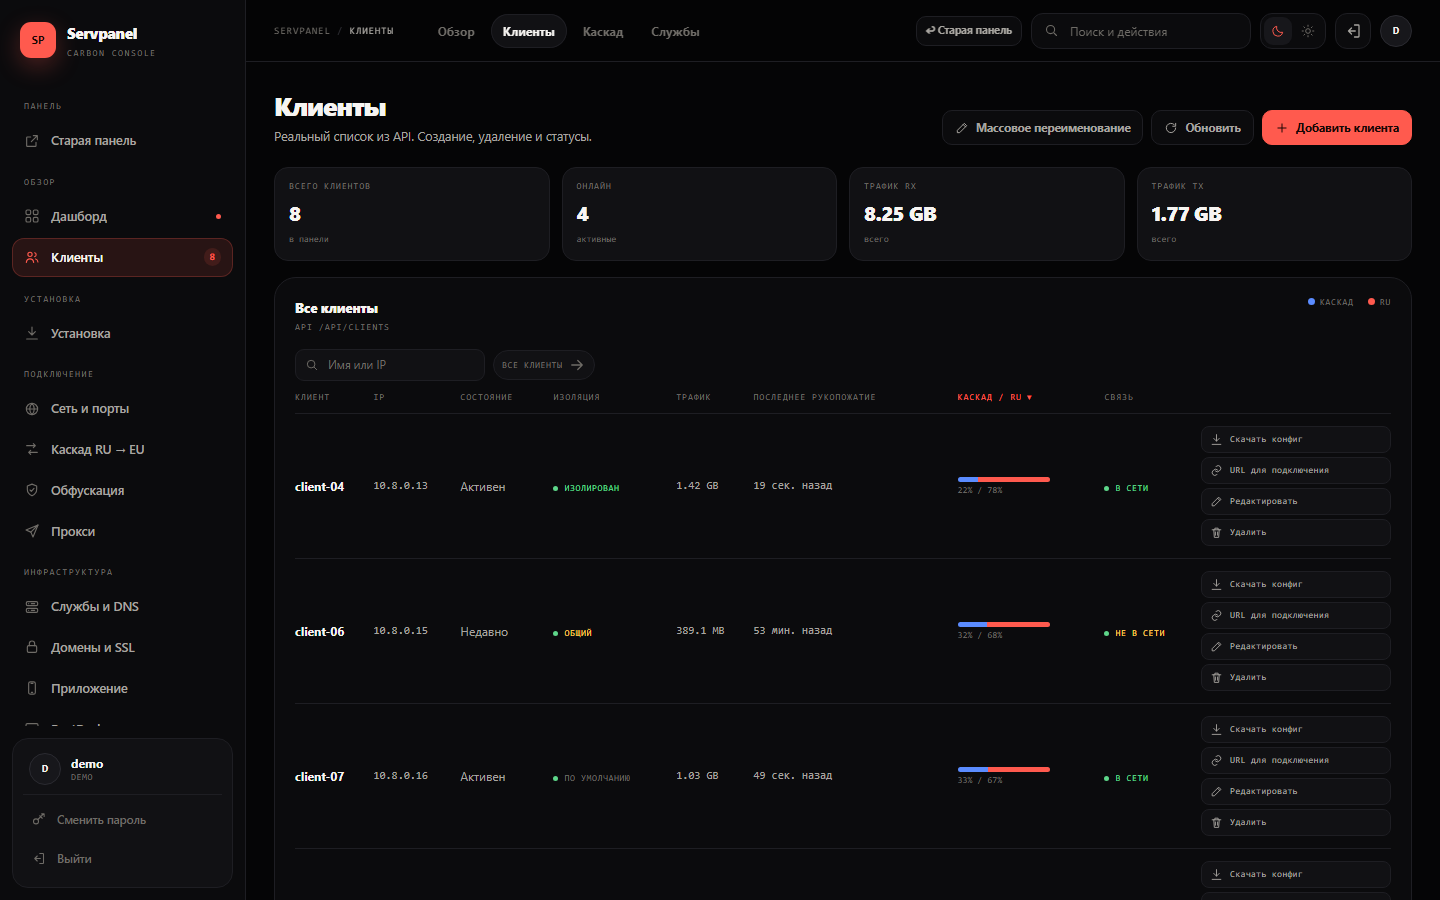
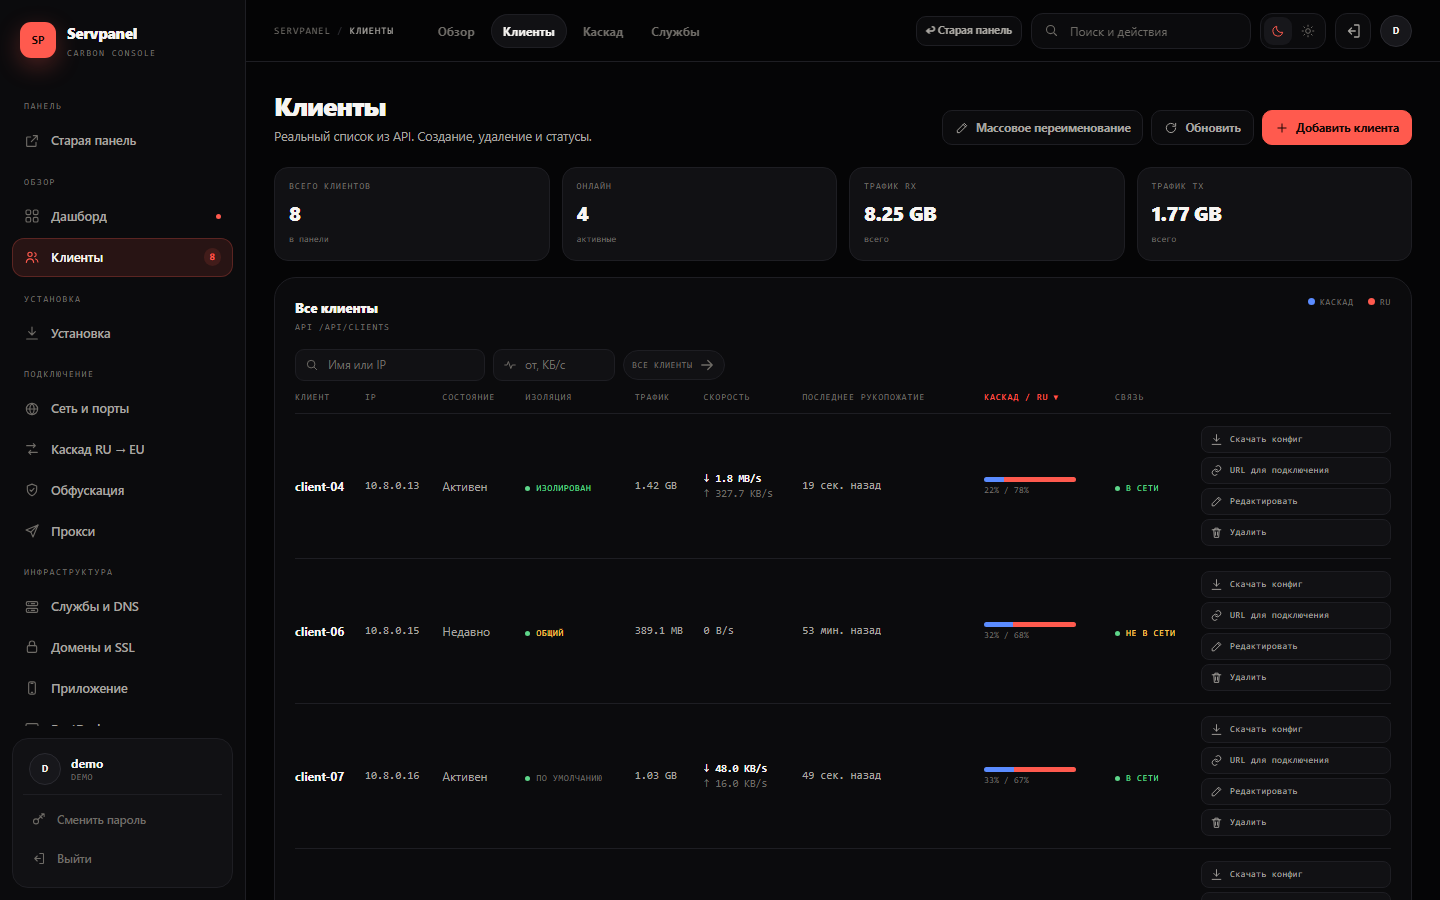
Docs: client speed column and filter screenshot

diff --git a/README.md b/README.md
@@ -39,7 +39,7 @@ KPI, CPU/RAM, uptime, график и распределение трафика 
 
 <img src="docs/screenshots/clients.png" alt="Клиенты Servpanel Carbon: сортировка по доле RU-трафика" width="900">
 
-Клик по заголовку сортирует таблицу, повторный клик меняет направление. Колонка **«Каскад / RU»** сортирует по доле RU-трафика.
+Клик по заголовку сортирует таблицу, повторный клик меняет направление. Колонка **«Каскад / RU»** сортирует по доле RU-трафика. В колонке **«Скорость»** — текущие ↓ Rx / ↑ Tx, рядом фильтр **«от, КБ/с»**.
 
 ### Клиент: лимиты и точечная изоляция
 
@@ -1029,7 +1029,7 @@ npm install
 npm test
 ```
 
-`npm test` проверяет синтаксис `server.js`, `public/app.js`, `public/carbon/app.js`, `public/carbon/carbon-api.js`, `public/carbon/actions.js`, `lib/updater.js`, `lib/update-worker.js` и запускает **109 интеграционных тестов** (встроенный `node:test`, без внешних зависимостей):
+`npm test` проверяет синтаксис `server.js`, `public/app.js`, `public/carbon/app.js`, `public/carbon/carbon-api.js`, `public/carbon/actions.js`, `lib/updater.js`, `lib/update-worker.js` и запускает **110 интеграционных тестов** (встроенный `node:test`, без внешних зависимостей):
 
 * доступ без авторизации, security-заголовки;
 * вход, блокировка после 5 неудач, журнал fail2ban;

diff --git a/DEMO.md b/DEMO.md
@@ -20,7 +20,7 @@ KPI, CPU/RAM, uptime, график и распределение трафика 
 
 <img src="docs/screenshots/clients.png" alt="Клиенты: сортировка по доле RU-трафика" width="900">
 
-Сортировка работает по всем колонкам. Колонка **«Каскад / RU»** сортирует по доле RU-трафика, повторный клик меняет направление.
+Сортировка работает по всем колонкам. Колонка **«Каскад / RU»** сортирует по доле RU-трафика, повторный клик меняет направление. В колонке **«Скорость»** — ↓ Rx / ↑ Tx, рядом фильтр «от, КБ/с».
 
 ### Изоляция клиента AWG
 
